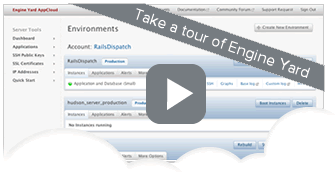
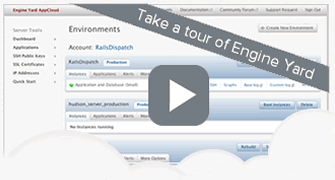
updated images

diff --git a/example/public/engineyard-theme/stylesheets/application.css b/example/public/engineyard-theme/stylesheets/application.css
@@ -1271,7 +1271,6 @@ header {
 #heroes #panels {
   position: relative; }
   #heroes #panels div {
-    background: white;
     width: 820px;
     height: 230px; }
   #heroes #panels img {

diff --git a/example/public/engineyard-theme/stylesheets/sass/application.sass b/example/public/engineyard-theme/stylesheets/sass/application.sass
@@ -698,7 +698,6 @@ $highlight-color-alt2: #CC0000
   #panels
     position: relative
     div
-      background: #FFF
       width: 820px
       height: 230px
     img
